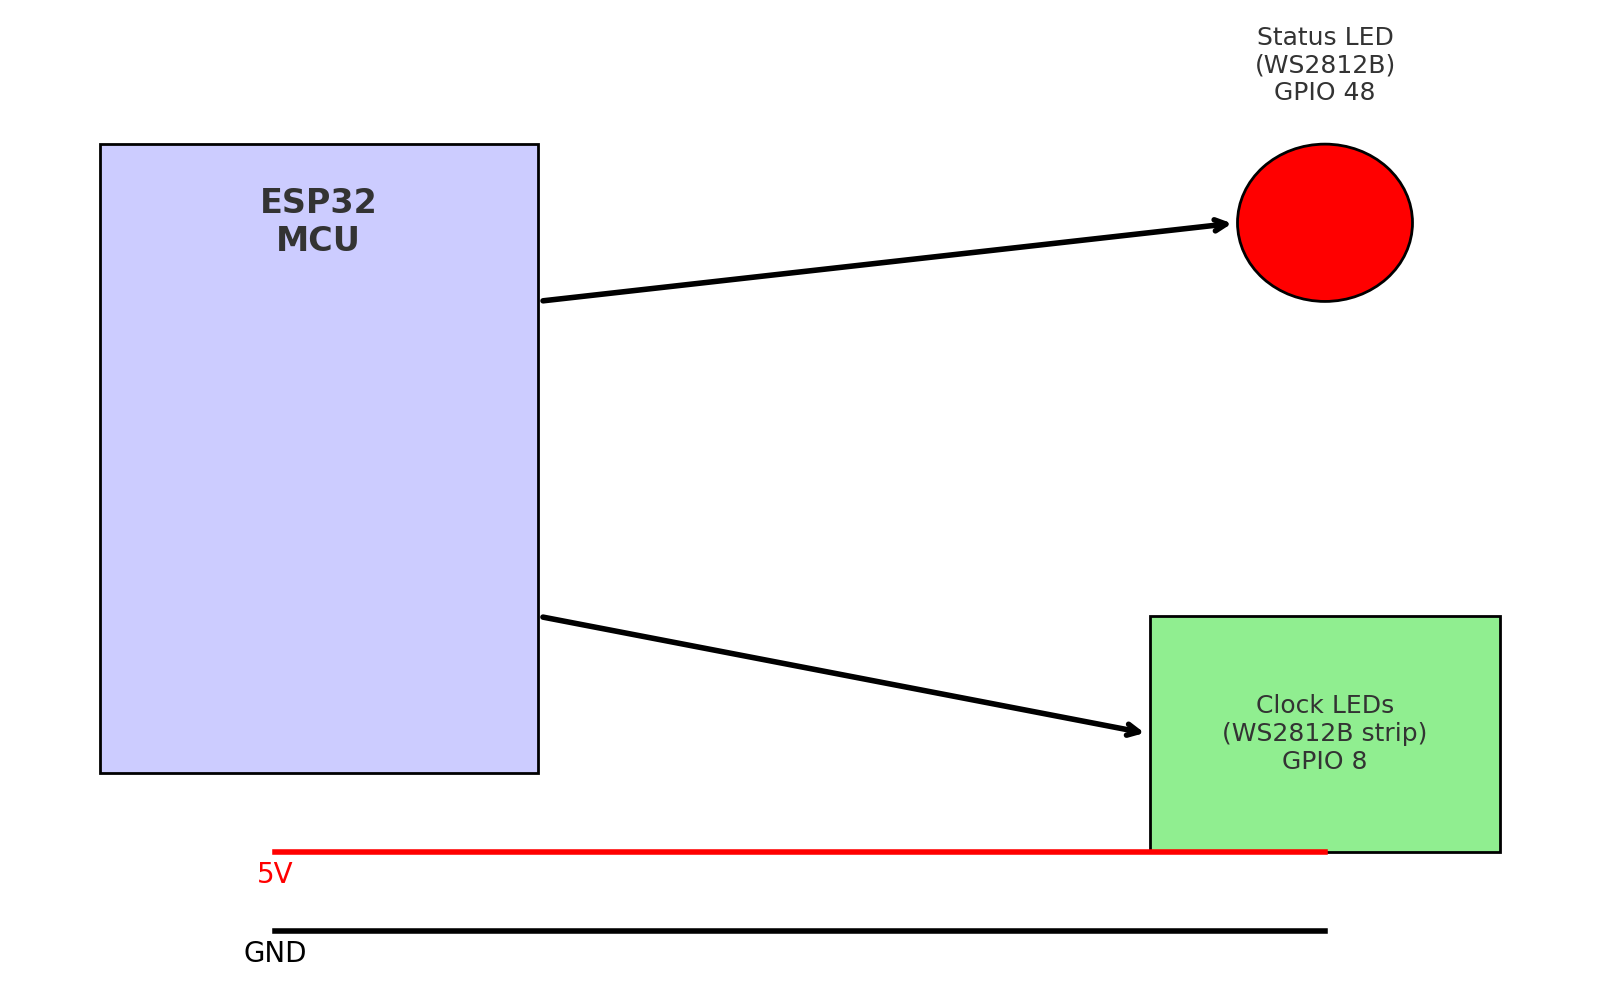
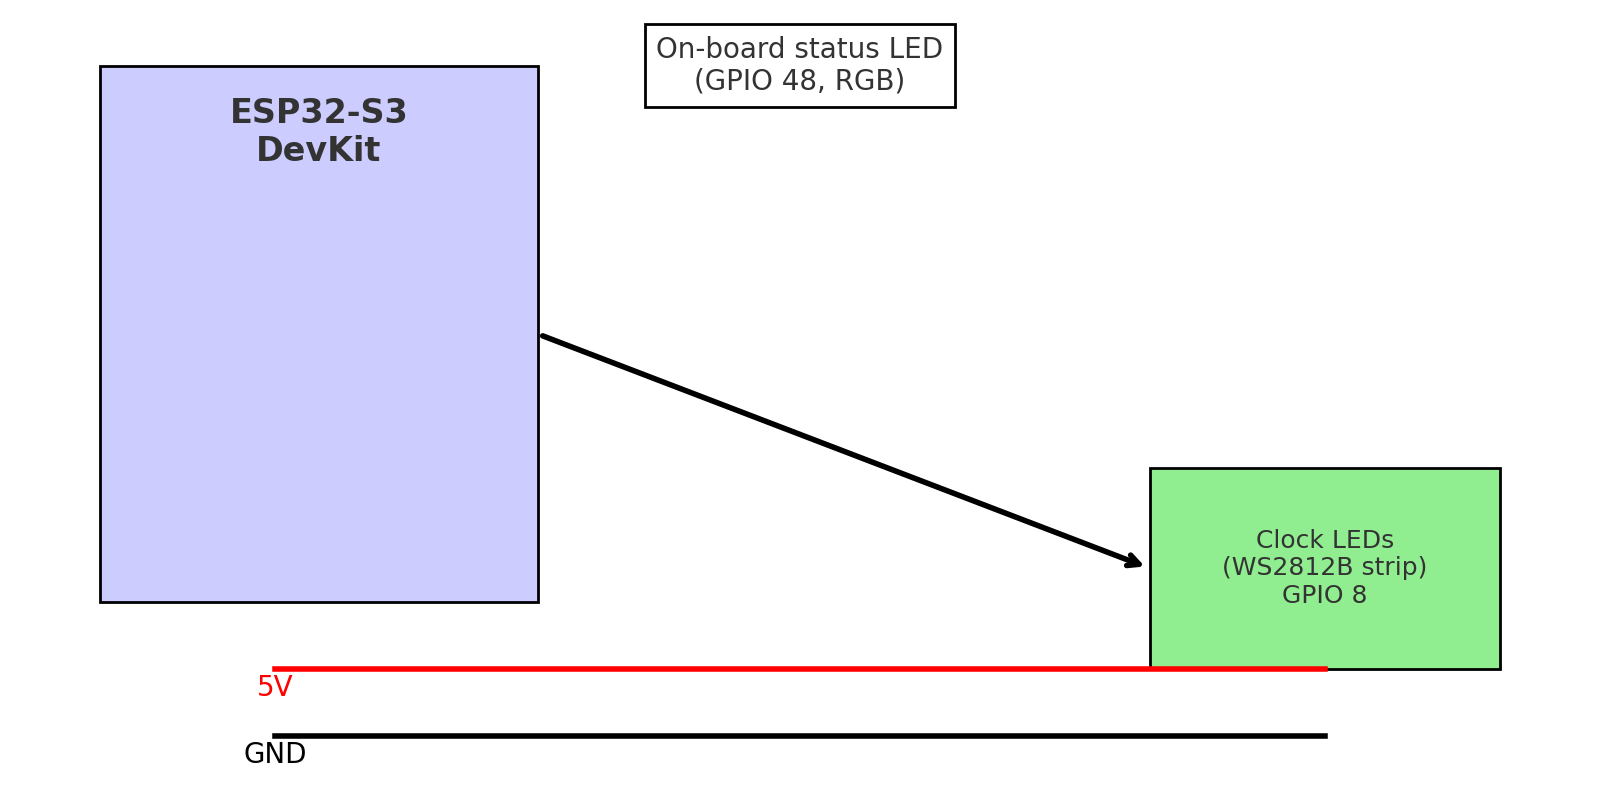
update

diff --git a/README.md b/README.md
@@ -83,14 +83,16 @@ De hardware (klokfront, lasercut) is klaar ✅. De software draait op een modern
 
 ### 📷 Aansluitschema
 
-![Wiring Diagram](wiring_diagram.png)
+![Wiring Diagram](images/wiring_diagram.png)
+
+> ℹ De status-LED (GPIO 48) zit al op de ESP32-S3 DevKit zelf (ingebouwde RGB LED).
 
 ### 📋 Pinout-tabel
 
 | GPIO | Functie        | Opmerking                           |
 |------|----------------|-------------------------------------|
 | 8    | Klok-LEDs DIN  | Data-in van WS2812B strip/matrix    |
-| 48   | Status-LED DIN | Data-in van losse WS2812B LED       |
+| 48   | Status-LED (onboard) | Ingebouwde RGB LED op ESP32 DevKit       |
 | 5V   | Voeding LEDs   | Zorg voor voldoende stroomcapaciteit |
 | GND  | Massa          | Moet gedeeld worden met LED-voeding |
 

diff --git a/README.en.md b/README.en.md
@@ -83,14 +83,16 @@ The hardware (clock face, lasercut parts) is ready ✅. The software runs on a m
 
 ### 📷 Wiring Diagram
 
-![Wiring Diagram](wiring_diagram.png)
+![Wiring Diagram](images/wiring_diagram.png)
+
+> ℹ The status LED (GPIO 48) is built into the ESP32-S3 DevKit (on-board RGB LED).
 
 ### 📋 Pinout Table
 
 | GPIO | Function      | Note                                 |
 |------|---------------|--------------------------------------|
 | 8    | Clock LEDs DIN| Data input of WS2812B strip/matrix   |
-| 48   | Status LED DIN| Data input of a single WS2812B LED   |
+| 48   | Status LED (on-board)| Built-in RGB LED on ESP32 DevKit   |
 | 5V   | LED Power     | Ensure sufficient power supply       |
 | GND  | Ground        | Must be shared with LED power supply |
 
